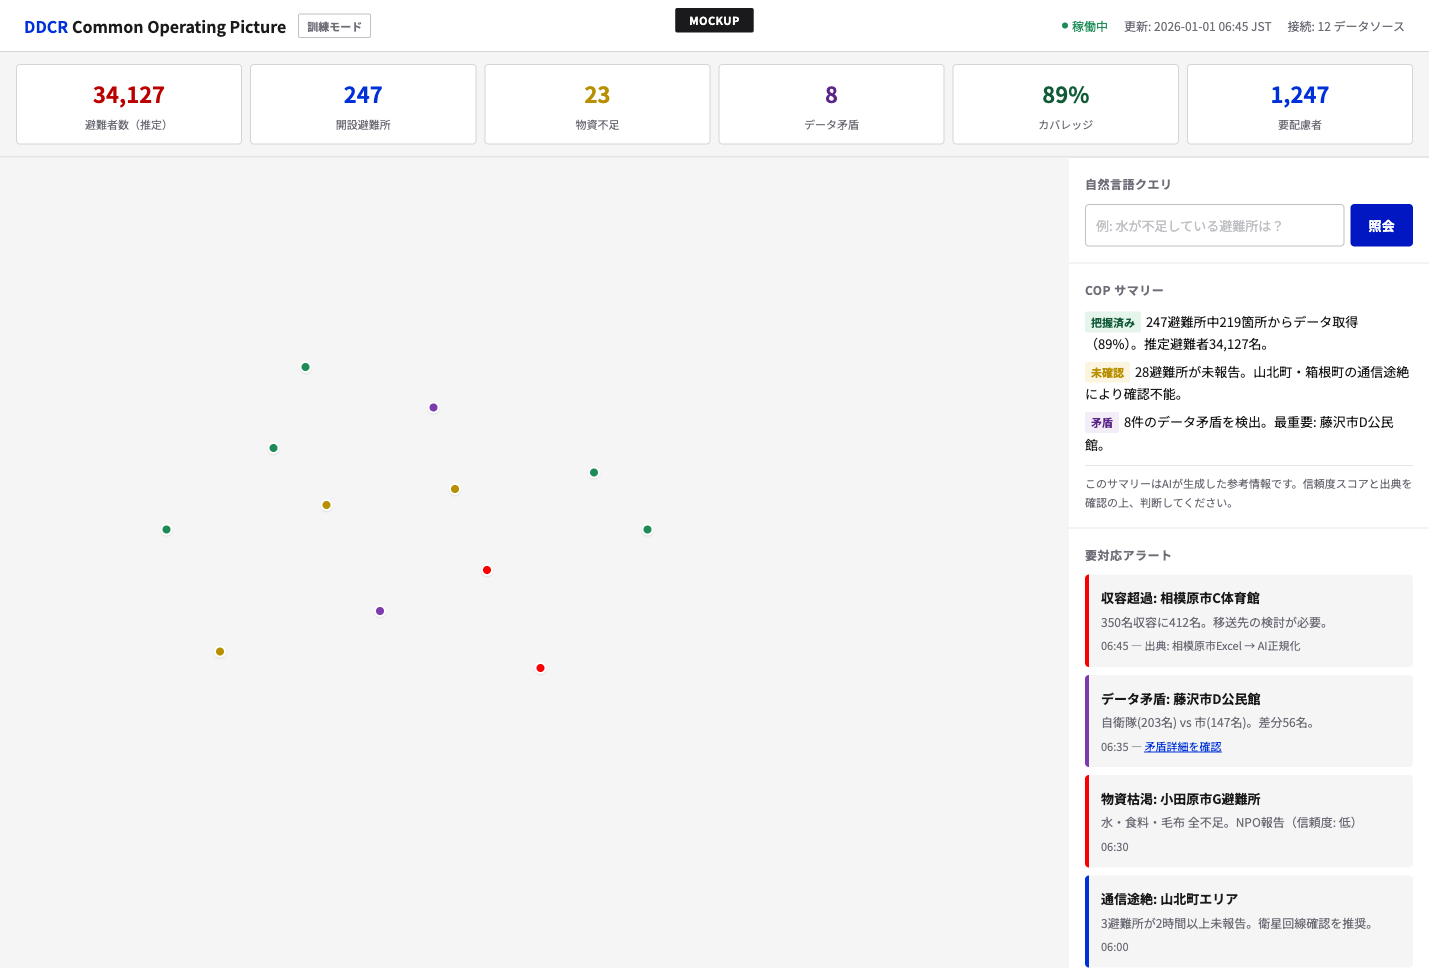
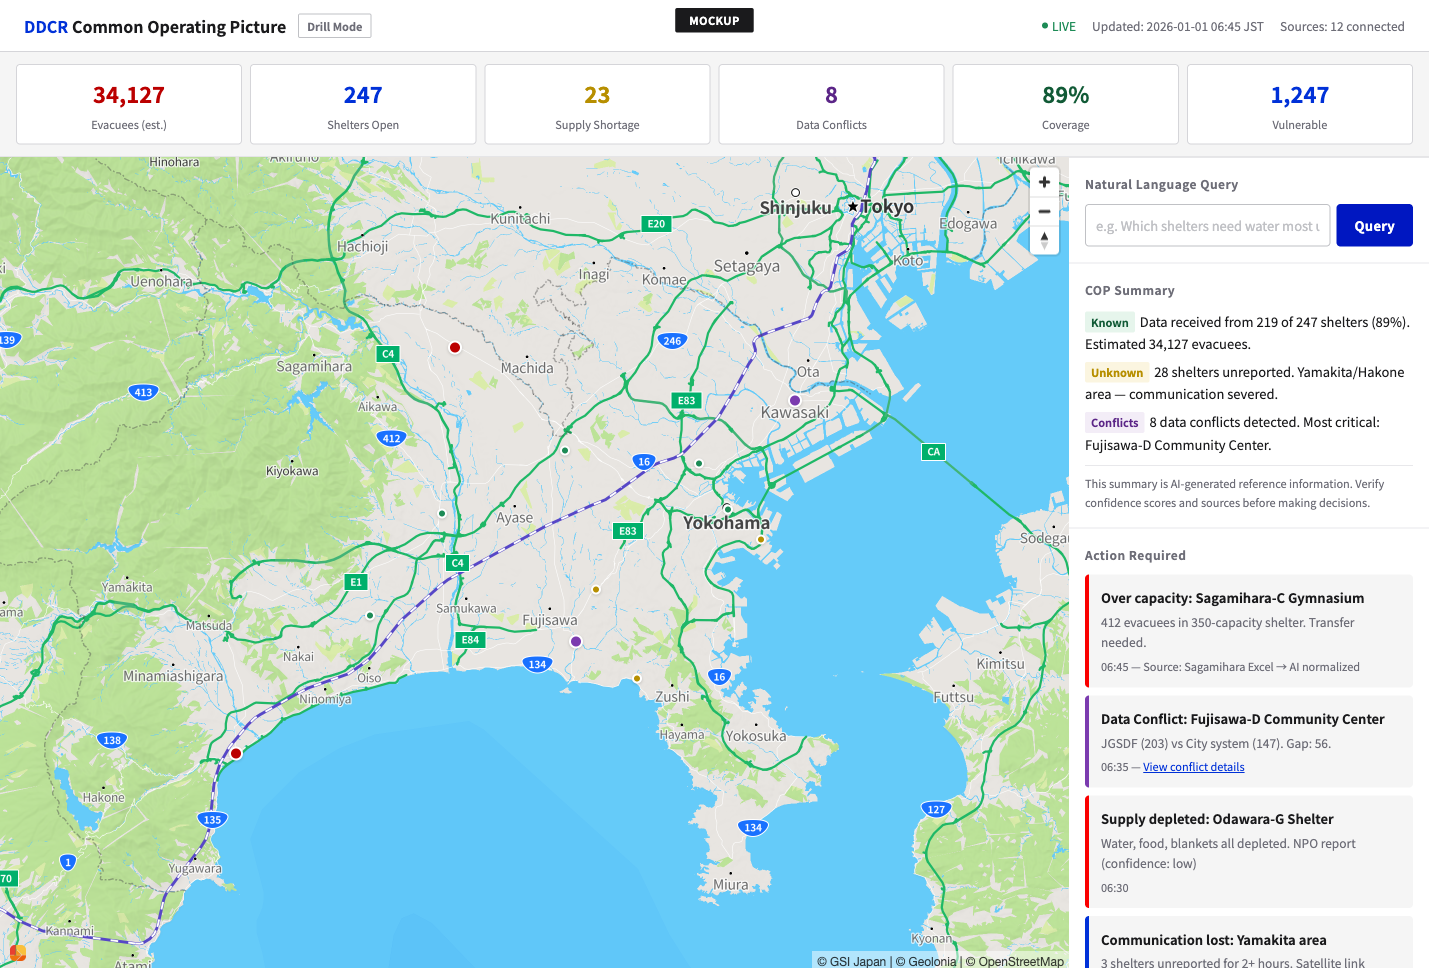
Geolonia Maps統合 + 英語UI化
- Geolonia Maps JavaScript APIで神奈川県の実地図を表示
- 12箇所の避難所マーカー（色分け: ok/warn/critical/conflict）
- クリックでポップアップ表示（避難者数、物資状態、Provenance情報）
- UI全体を英語化（Google.org審査向け）
- 国土地理院タイル（geolonia/gsi スタイル）使用

diff --git a/mockups/cop-dashboard.html b/mockups/cop-dashboard.html
@@ -1,5 +1,5 @@
 <!DOCTYPE html>
-<html lang="ja">
+<html lang="en">
 <head>
 <meta charset="UTF-8">
 <meta name="viewport" content="width=device-width, initial-scale=1.0">
@@ -100,32 +100,22 @@
   .stat-card.conflict .value { color: var(--color-primitive-purple-900); }
 
   /* === Map === */
-  .map-area { position: relative; background: var(--color-sumi-50); overflow: hidden; }
+  .map-area { position: relative; overflow: hidden; }
+  #map { width: 100%; height: 100%; }
 
-  .markers { position: absolute; top: 0; left: 0; width: 100%; height: 100%; }
-  .marker {
-    position: absolute; width: 12px; height: 12px; border-radius: 50%;
-    border: 2px solid var(--color-neutral-white); cursor: pointer;
-    box-shadow: 0 1px 2px rgba(0,0,0,0.15); transition: transform 0.15s;
+  /* Geolonia popup styling */
+  .maplibregl-popup-content {
+    font-family: var(--font-family-sans) !important;
+    font-size: 12px !important;
+    padding: 10px 14px !important;
+    border-radius: 4px !important;
+    box-shadow: 0 2px 8px rgba(0,0,0,0.08) !important;
+    max-width: 260px !important;
   }
-  .marker:hover { transform: scale(1.8); z-index: 10; }
-  .marker.ok { background: var(--color-primitive-green-700); }
-  .marker.warn { background: var(--color-primitive-yellow-700); }
-  .marker.critical { background: var(--color-primitive-red-700); }
-  .marker.conflict { background: var(--color-primitive-purple-700); }
-
-  .marker .tooltip {
-    display: none; position: absolute; bottom: 20px; left: 50%; transform: translateX(-50%);
-    background: var(--color-neutral-white); border: 1px solid var(--color-sumi-200);
-    border-radius: 4px; padding: 10px 14px;
-    box-shadow: 0 2px 8px rgba(0,0,0,0.08); white-space: nowrap; font-size: 12px;
-    z-index: 100; min-width: 240px;
-  }
-  .marker:hover .tooltip { display: block; }
-  .tooltip .name { font-weight: 700; font-size: 13px; margin-bottom: 4px; }
-  .tooltip .detail { color: var(--color-sumi-500); margin-bottom: 2px; }
-  .tooltip .conflict-tag { color: var(--color-primitive-purple-700); font-weight: 700; margin-top: 4px; }
-  .tooltip .provenance {
+  .popup-name { font-weight: 700; font-size: 13px; margin-bottom: 4px; }
+  .popup-detail { color: var(--color-sumi-500); margin-bottom: 2px; }
+  .popup-conflict { color: var(--color-primitive-purple-700); font-weight: 700; margin-top: 4px; }
+  .popup-provenance {
     color: var(--color-sumi-500); font-size: 11px;
     margin-top: 6px; border-top: 1px solid var(--color-sumi-100); padding-top: 4px;
   }
@@ -209,81 +199,68 @@
 <div class="header">
   <div class="header-left">
     <h1><span class="accent">DDCR</span> Common Operating Picture</h1>
-    <span class="badge">訓練モード</span>
+    <span class="badge">Drill Mode</span>
   </div>
   <div class="meta">
-    <div class="live">稼働中</div>
-    <div>更新: 2026-01-01 06:45 JST</div>
-    <div>接続: 12 データソース</div>
+    <div class="live">LIVE</div>
+    <div>Updated: 2026-01-01 06:45 JST</div>
+    <div>Sources: 12 connected</div>
   </div>
 </div>
 
 <div class="main">
   <div class="stats-bar">
-    <div class="stat-card danger"><div class="value">34,127</div><div class="label">避難者数（推定）</div></div>
-    <div class="stat-card info"><div class="value">247</div><div class="label">開設避難所</div></div>
-    <div class="stat-card warn"><div class="value">23</div><div class="label">物資不足</div></div>
-    <div class="stat-card conflict"><div class="value">8</div><div class="label">データ矛盾</div></div>
-    <div class="stat-card ok"><div class="value">89%</div><div class="label">カバレッジ</div></div>
-    <div class="stat-card info"><div class="value">1,247</div><div class="label">要配慮者</div></div>
+    <div class="stat-card danger"><div class="value">34,127</div><div class="label">Evacuees (est.)</div></div>
+    <div class="stat-card info"><div class="value">247</div><div class="label">Shelters Open</div></div>
+    <div class="stat-card warn"><div class="value">23</div><div class="label">Supply Shortage</div></div>
+    <div class="stat-card conflict"><div class="value">8</div><div class="label">Data Conflicts</div></div>
+    <div class="stat-card ok"><div class="value">89%</div><div class="label">Coverage</div></div>
+    <div class="stat-card info"><div class="value">1,247</div><div class="label">Vulnerable</div></div>
   </div>
 
   <div class="map-area">
-    <div class="markers">
-      <div class="marker ok" style="left:25%;top:35%;"><div class="tooltip"><div class="name">横浜市立A小学校</div><div class="detail">避難者: 147名 / 収容: 300名</div><div class="detail">物資: 充足</div><div class="provenance">出典: 横浜市システム — 06:30 — 信頼度: 高</div></div></div>
-      <div class="marker warn" style="left:30%;top:42%;"><div class="tooltip"><div class="name">横浜市立B中学校</div><div class="detail">避難者: 289名 / 収容: 300名</div><div class="detail">物資: 水不足</div><div class="provenance">出典: 横浜市システム — 06:15 — 信頼度: 高</div></div></div>
-      <div class="marker critical" style="left:45%;top:50%;"><div class="tooltip"><div class="name">相模原市C体育館</div><div class="detail">避難者: 412名 / 収容: 350名（超過）</div><div class="detail">物資: 水・食料 不足</div><div class="provenance">出典: 相模原市Excel — 05:45 — 信頼度: 中</div></div></div>
-      <div class="marker conflict" style="left:35%;top:55%;"><div class="tooltip"><div class="name">藤沢市D公民館</div><div class="detail">避難者: 矛盾あり</div><div class="conflict-tag">自衛隊: 203名 vs 市システム: 147名</div><div class="provenance">自衛隊 06:30（現地確認）/ 市 05:00（システム）</div></div></div>
-      <div class="marker ok" style="left:55%;top:38%;"><div class="tooltip"><div class="name">厚木市E小学校</div><div class="detail">避難者: 56名 / 収容: 200名</div><div class="provenance">LINE Bot — 06:20 — 信頼度: 中</div></div></div>
-      <div class="marker warn" style="left:20%;top:60%;"><div class="tooltip"><div class="name">鎌倉市F体育館</div><div class="detail">避難者: 178名 / 200名</div><div class="detail">毛布不足</div><div class="provenance">FAX → AI正規化 — 06:00 — 信頼度: 中</div></div></div>
-      <div class="marker critical" style="left:50%;top:62%;"><div class="tooltip"><div class="name">小田原市G避難所</div><div class="detail">避難者: 320名 / 250名（超過）</div><div class="provenance">NPO報告 — 05:30 — 信頼度: 低</div></div></div>
-      <div class="marker conflict" style="left:40%;top:30%;"><div class="tooltip"><div class="name">川崎市H小学校</div><div class="detail">避難者: 矛盾あり</div><div class="conflict-tag">DMAT: 95名 vs 川崎市: 132名</div><div class="provenance">DMAT 06:00 / 川崎市 04:30</div></div></div>
-      <div class="marker ok" style="left:60%;top:45%;"></div>
-      <div class="marker ok" style="left:15%;top:45%;"></div>
-      <div class="marker warn" style="left:42%;top:40%;"></div>
-      <div class="marker ok" style="left:28%;top:25%;"></div>
-    </div>
+    <div id="map"></div>
   </div>
 
   <div class="sidebar">
     <div class="sidebar-section">
-      <h3>自然言語クエリ</h3>
+      <h3>Natural Language Query</h3>
       <div class="nl-query">
-        <input type="text" placeholder="例: 水が不足している避難所は？">
-        <button class="btn-primary">照会</button>
+        <input type="text" placeholder="e.g. Which shelters need water most urgently?">
+        <button class="btn-primary">Query</button>
       </div>
     </div>
 
     <div class="sidebar-section">
-      <h3>COP サマリー</h3>
+      <h3>COP Summary</h3>
       <div class="cop-summary">
-        <p><span class="tag known">把握済み</span> 247避難所中219箇所からデータ取得（89%）。推定避難者34,127名。</p>
-        <p style="margin-top:6px;"><span class="tag unknown">未確認</span> 28避難所が未報告。山北町・箱根町の通信途絶により確認不能。</p>
-        <p style="margin-top:6px;"><span class="tag conflicting">矛盾</span> 8件のデータ矛盾を検出。最重要: 藤沢市D公民館。</p>
-        <div class="ai-note">このサマリーはAIが生成した参考情報です。信頼度スコアと出典を確認の上、判断してください。</div>
+        <p><span class="tag known">Known</span> Data received from 219 of 247 shelters (89%). Estimated 34,127 evacuees.</p>
+        <p style="margin-top:6px;"><span class="tag unknown">Unknown</span> 28 shelters unreported. Yamakita/Hakone area — communication severed.</p>
+        <p style="margin-top:6px;"><span class="tag conflicting">Conflicts</span> 8 data conflicts detected. Most critical: Fujisawa-D Community Center.</p>
+        <div class="ai-note">This summary is AI-generated reference information. Verify confidence scores and sources before making decisions.</div>
       </div>
     </div>
 
     <div class="sidebar-section">
-      <h3>要対応アラート</h3>
+      <h3>Action Required</h3>
       <div class="alert-item critical">
-        <div class="alert-title">収容超過: 相模原市C体育館</div>
-        <div class="alert-detail">350名収容に412名。移送先の検討が必要。</div>
-        <div class="alert-time">06:45 — 出典: 相模原市Excel → AI正規化</div>
+        <div class="alert-title">Over capacity: Sagamihara-C Gymnasium</div>
+        <div class="alert-detail">412 evacuees in 350-capacity shelter. Transfer needed.</div>
+        <div class="alert-time">06:45 — Source: Sagamihara Excel → AI normalized</div>
       </div>
       <div class="alert-item conflict">
-        <div class="alert-title">データ矛盾: 藤沢市D公民館</div>
-        <div class="alert-detail">自衛隊(203名) vs 市(147名)。差分56名。</div>
-        <div class="alert-time">06:35 — <a href="conflict-view.html">矛盾詳細を確認</a></div>
+        <div class="alert-title">Data Conflict: Fujisawa-D Community Center</div>
+        <div class="alert-detail">JGSDF (203) vs City system (147). Gap: 56.</div>
+        <div class="alert-time">06:35 — <a href="conflict-view.html">View conflict details</a></div>
       </div>
       <div class="alert-item critical">
-        <div class="alert-title">物資枯渇: 小田原市G避難所</div>
-        <div class="alert-detail">水・食料・毛布 全不足。NPO報告（信頼度: 低）</div>
+        <div class="alert-title">Supply depleted: Odawara-G Shelter</div>
+        <div class="alert-detail">Water, food, blankets all depleted. NPO report (confidence: low)</div>
         <div class="alert-time">06:30</div>
       </div>
       <div class="alert-item info">
-        <div class="alert-title">通信途絶: 山北町エリア</div>
-        <div class="alert-detail">3避難所が2時間以上未報告。衛星回線確認を推奨。</div>
+        <div class="alert-title">Communication lost: Yamakita area</div>
+        <div class="alert-detail">3 shelters unreported for 2+ hours. Satellite link recommended.</div>
         <div class="alert-time">06:00</div>
       </div>
     </div>
@@ -291,9 +268,81 @@
 </div>
 
 <div class="footer">
-  <div>DDCR v0.1 | 神奈川県防災訓練 | 12データソース接続中</div>
-  <div>全データにW3C PROV-O準拠の来歴メタデータを付与</div>
+  <div>DDCR v0.1 | Kanagawa Prefecture Disaster Drill | 12 data sources connected</div>
+  <div>All data points carry W3C PROV-O compliant provenance metadata</div>
 </div>
 
+<script src="https://cdn.geolonia.com/v1/embed?geolonia-api-key=YOUR-API-KEY"></script>
+<script>
+const shelters = {
+  type: "FeatureCollection",
+  features: [
+    { type: "Feature", geometry: { type: "Point", coordinates: [139.6380, 35.4437] }, properties: { name: "Yokohama-A Elementary", status: "ok", evacuees: 147, capacity: 300, supply: "Adequate", source: "Yokohama City System", time: "06:30", confidence: "High" }},
+    { type: "Feature", geometry: { type: "Point", coordinates: [139.6700, 35.4200] }, properties: { name: "Yokohama-B Junior High", status: "warn", evacuees: 289, capacity: 300, supply: "Water shortage", source: "Yokohama City System", time: "06:15", confidence: "High" }},
+    { type: "Feature", geometry: { type: "Point", coordinates: [139.3727, 35.5713] }, properties: { name: "Sagamihara-C Gymnasium", status: "critical", evacuees: 412, capacity: 350, supply: "Water & food shortage", source: "Sagamihara Excel", time: "05:45", confidence: "Medium" }},
+    { type: "Feature", geometry: { type: "Point", coordinates: [139.4900, 35.3388] }, properties: { name: "Fujisawa-D Community Center", status: "conflict", conflict: "JGSDF: 203 vs City: 147", source: "JGSDF 06:30 / City 05:00", confidence: "" }},
+    { type: "Feature", geometry: { type: "Point", coordinates: [139.3600, 35.4400] }, properties: { name: "Atsugi-E Elementary", status: "ok", evacuees: 56, capacity: 200, supply: "Adequate", source: "LINE Bot", time: "06:20", confidence: "Medium" }},
+    { type: "Feature", geometry: { type: "Point", coordinates: [139.5500, 35.3100] }, properties: { name: "Kamakura-F Gymnasium", status: "warn", evacuees: 178, capacity: 200, supply: "Blanket shortage", source: "FAX → AI normalized", time: "06:00", confidence: "Medium" }},
+    { type: "Feature", geometry: { type: "Point", coordinates: [139.1600, 35.2500] }, properties: { name: "Odawara-G Shelter", status: "critical", evacuees: 320, capacity: 250, supply: "All depleted", source: "NPO report", time: "05:30", confidence: "Low" }},
+    { type: "Feature", geometry: { type: "Point", coordinates: [139.7030, 35.5300] }, properties: { name: "Kawasaki-H Elementary", status: "conflict", conflict: "DMAT: 95 vs Kawasaki City: 132", source: "DMAT 06:00 / City 04:30", confidence: "" }},
+    { type: "Feature", geometry: { type: "Point", coordinates: [139.4800, 35.4900] }, properties: { name: "Zama-I Elementary", status: "ok", evacuees: 42, capacity: 150, source: "City system", time: "06:10", confidence: "High" }},
+    { type: "Feature", geometry: { type: "Point", coordinates: [139.2900, 35.3600] }, properties: { name: "Hadano-J Junior High", status: "ok", evacuees: 78, capacity: 250, source: "City system", time: "06:25", confidence: "High" }},
+    { type: "Feature", geometry: { type: "Point", coordinates: [139.5100, 35.3800] }, properties: { name: "Yamato-K Gymnasium", status: "warn", evacuees: 195, capacity: 220, supply: "Food shortage", source: "City Excel", time: "05:50", confidence: "Medium" }},
+    { type: "Feature", geometry: { type: "Point", coordinates: [139.6100, 35.4800] }, properties: { name: "Machida Border-L Shelter", status: "ok", evacuees: 34, capacity: 100, source: "LINE Bot", time: "06:05", confidence: "Medium" }},
+  ]
+};
+
+const statusColors = {
+  ok: "#1d8b56",
+  warn: "#b78f00",
+  critical: "#bb0000",
+  conflict: "#7b3baf"
+};
+
+function buildPopup(p) {
+  let html = '<div class="popup-name">' + p.name + '</div>';
+  if (p.status === "conflict") {
+    html += '<div class="popup-detail">Evacuees: <b>Conflicting data</b></div>';
+    html += '<div class="popup-conflict">' + p.conflict + '</div>';
+  } else {
+    html += '<div class="popup-detail">Evacuees: ' + p.evacuees + ' / Capacity: ' + p.capacity + (p.evacuees > p.capacity ? ' (Over)' : '') + '</div>';
+    if (p.supply) html += '<div class="popup-detail">Supplies: ' + p.supply + '</div>';
+  }
+  html += '<div class="popup-provenance">Source: ' + p.source + (p.time ? ' — ' + p.time : '') + (p.confidence ? ' — Confidence: ' + p.confidence : '') + '</div>';
+  return html;
+}
+
+const map = new geolonia.Map({
+  container: "map",
+  center: [139.45, 35.40],
+  zoom: 9.5,
+  style: "geolonia/gsi",
+  hash: false
+});
+
+map.on("load", () => {
+  shelters.features.forEach((f) => {
+    const color = statusColors[f.properties.status] || "#1d8b56";
+    const size = f.properties.status === "critical" || f.properties.status === "conflict" ? 14 : 10;
+
+    const el = document.createElement("div");
+    el.style.width = size + "px";
+    el.style.height = size + "px";
+    el.style.borderRadius = "50%";
+    el.style.backgroundColor = color;
+    el.style.border = "2px solid #fff";
+    el.style.boxShadow = "0 1px 3px rgba(0,0,0,0.2)";
+    el.style.cursor = "pointer";
+
+    const popup = new geolonia.Popup({ offset: 12, closeButton: false })
+      .setHTML(buildPopup(f.properties));
+
+    new geolonia.Marker({ element: el })
+      .setLngLat(f.geometry.coordinates)
+      .setPopup(popup)
+      .addTo(map);
+  });
+});
+</script>
 </body>
 </html>
